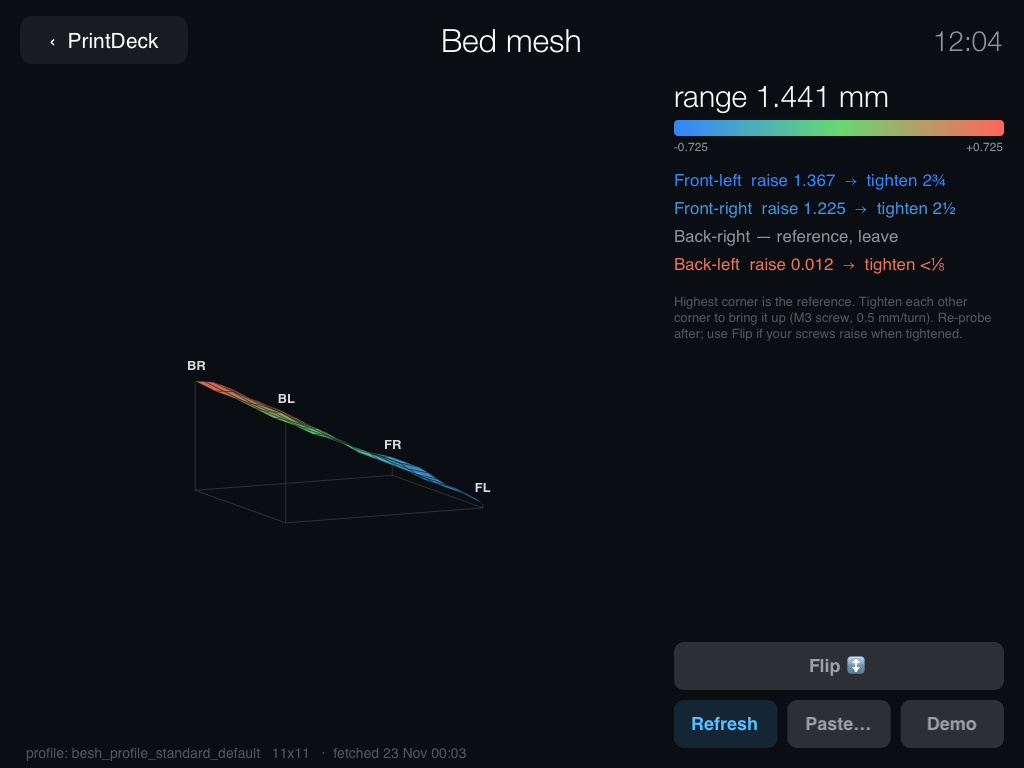
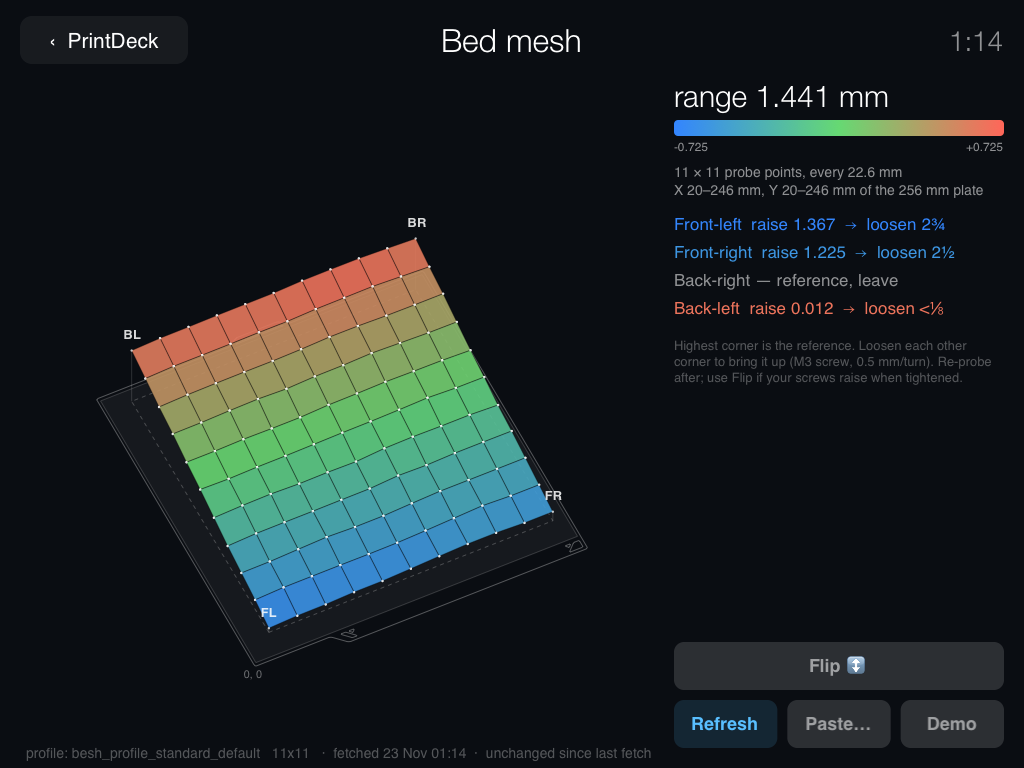
Bed mesh: draw the probed grid to scale on the real plate
The mesh view now places the probed area where the printer probed it on
the Centauri Carbon's plate (outline from PDBedShape.h, 256 mm printable
square, dashed probed footprint), with one grid line and one dot per probe
point. The panel lists the probe count, spacing and X/Y range. The default
view looks from the front-left, and quads are painted far-first (they were
painted nearest-first). The demo mesh now spans 20-246 mm like the real one.

diff --git a/PDMeshView.m b/PDMeshView.m
@@ -4,9 +4,11 @@
 #import "PDUtil.h"
 #import "PDPrinter.h"
 #import <QuartzCore/QuartzCore.h>
+#import "PDBedShape.h"
 #include <math.h>
 
 static NSString *const PDMeshInvertKey = @"PDMeshInvertScrew";
+static const double PDMeshPlate = 256.0;  // mm, the printable square
 static const double PDScrewPitch = 0.5;  // mm per full turn (M3 leveling screw; most of these beds)
 
 // Diverging colour: t in [-1,1], blue (low) -> green (on plane) -> red (high).
@@ -57,7 +59,8 @@ static NSString *PDTurns(double turns) {
 	return self;
 }
 
-- (void)resetView { self.azimuth = 0.62; self.elevation = 0.95; self.zoom = 1.0; [self setNeedsDisplay]; }
+- (void)resetView { self.azimuth = M_PI - 0.45; self.elevation = 0.95;  // from the front-left, as you stand at the printer
+	 self.zoom = 1.0; [self setNeedsDisplay]; }
 
 - (void)pan:(UIPanGestureRecognizer *)g {
 	CGPoint t = [g translationInView:self];
@@ -73,74 +76,113 @@ static NSString *PDTurns(double turns) {
 	[self setNeedsDisplay];
 }
 
+// The whole plate is drawn to scale (the Centauri Carbon's real outline from PDBedShape.h and its 256 mm printable
+// square), and the probed area sits where it really is on it: one grid line and one dot per probe point, at the
+// X/Y the printer probed (mesh_min..mesh_max, x_count × y_count), so the spacing and the unprobed margins are true.
 - (void)drawRect:(CGRect)rect {
 	PDMesh *m = self.mesh;
 	CGContextRef ctx = UIGraphicsGetCurrentContext();
 	CGRect b = self.bounds;
 	if (!m || m.nx < 2 || m.ny < 2) return;
 	NSUInteger nx = m.nx, ny = m.ny, N = nx * ny;
-	double cx = (m.minX + m.maxX) / 2, cy = (m.minY + m.maxY) / 2, mean = m.mean;
-	double bedMax = MAX(m.maxX - m.minX, m.maxY - m.minY);
+	const double S = PDMeshPlate, cx = S / 2, cy = S / 2;
+	double mean = m.mean;
 	double maxAbs = MAX(fabs(m.max - mean), fabs(mean - m.min));
 	if (maxAbs < 1e-6) maxAbs = 1e-6;
-	double zExagg = 0.26 * bedMax / maxAbs;   // auto: relief fills ~a quarter of the model height
+	double zExagg = 0.12 * S / maxAbs;   // auto: the relief is about a quarter of the plate width, top to bottom
 	double az = self.azimuth, el = self.elevation, ca = cos(az), sa = sin(az), ce = cos(el), se = sin(el);
-	double scale = MIN(b.size.width, b.size.height) * 0.34 * self.zoom;
+	double scale = MIN(b.size.width, b.size.height) * 0.56 * self.zoom;
 	double ox = b.size.width / 2, oy = b.size.height * 0.54;
-
-	CGPoint *P = malloc(sizeof(CGPoint) * N);
-	double *dev = malloc(sizeof(double) * N);
 	#define PROJ(X, Y, Z, OUTP, OUTDEPTH) do { \
 		double rx = (X) * ca - (Y) * sa, ry = (X) * sa + (Y) * ca, rz = (Z); \
 		double sx = rx, sy = rz * ce - ry * se; OUTDEPTH = ry * ce + rz * se; \
 		OUTP = CGPointMake(ox + scale * sx, oy - scale * sy); } while (0)
+	// printer mm -> model units. PROJ is a mirror image (its screen axes are left-handed), so X is negated to
+	// undo that: the bed's left stays on the left as seen from the front.
+	#define BED(XMM, YMM, ZU, OUTP) do { double _d; PROJ(-((XMM) - cx) / S, ((YMM) - cy) / S, (ZU), OUTP, _d); (void)_d; } while (0)
 
+	double baseZ = (m.min - mean) * zExagg / S - 0.02;
+
+	// the plate: printable square filled faintly, the physical outline (tabs and all) and the 0/256 corner marks
+	CGPoint sq[4];
+	double sxv[4] = {0, S, S, 0}, syv[4] = {0, 0, S, S};
+	for (int i = 0; i < 4; i++) BED(sxv[i], syv[i], baseZ, sq[i]);
+	CGContextMoveToPoint(ctx, sq[0].x, sq[0].y);
+	for (int i = 1; i < 4; i++) CGContextAddLineToPoint(ctx, sq[i].x, sq[i].y);
+	CGContextClosePath(ctx);
+	CGContextSetFillColorWithColor(ctx, [UIColor colorWithWhite:1 alpha:0.05].CGColor);
+	CGContextSetStrokeColorWithColor(ctx, [UIColor colorWithWhite:1 alpha:0.16].CGColor);
+	CGContextSetLineWidth(ctx, 1.0);
+	CGContextDrawPath(ctx, kCGPathFillStroke);
+	for (int i = 0; i < PDBedEdgeCount; i++) {
+		CGPoint p0, p1;
+		BED(PDBedOutline[i * 4], PDBedOutline[i * 4 + 1], baseZ, p0);
+		BED(PDBedOutline[i * 4 + 2], PDBedOutline[i * 4 + 3], baseZ, p1);
+		CGContextMoveToPoint(ctx, p0.x, p0.y);
+		CGContextAddLineToPoint(ctx, p1.x, p1.y);
+	}
+	CGContextSetStrokeColorWithColor(ctx, [UIColor colorWithWhite:1 alpha:0.30].CGColor);
+	CGContextStrokePath(ctx);
+	// the probed area's footprint on the plate (dashed)
+	CGPoint fp[4];
+	double fxv[4] = {m.minX, m.maxX, m.maxX, m.minX}, fyv[4] = {m.minY, m.minY, m.maxY, m.maxY};
+	for (int i = 0; i < 4; i++) BED(fxv[i], fyv[i], baseZ, fp[i]);
+	CGFloat dash[2] = {4, 4};
+	CGContextSetLineDash(ctx, 0, dash, 2);
+	CGContextMoveToPoint(ctx, fp[0].x, fp[0].y);
+	for (int i = 1; i < 4; i++) CGContextAddLineToPoint(ctx, fp[i].x, fp[i].y);
+	CGContextClosePath(ctx);
+	CGContextSetStrokeColorWithColor(ctx, [UIColor colorWithWhite:1 alpha:0.22].CGColor);
+	CGContextStrokePath(ctx);
+	CGContextSetLineDash(ctx, 0, NULL, 0);
+	// the plate's origin (drawn now so the surface covers them when it's in front)
+	[[UIColor colorWithWhite:1 alpha:0.40] set];
+	UIFont *small = [UIFont systemFontOfSize:11];
+	[@"0, 0" drawAtPoint:CGPointMake(sq[0].x - 12, sq[0].y + 4) withFont:small];
+
+	// surface vertices: exactly the probe points
+	CGPoint *P = malloc(sizeof(CGPoint) * N);
+	double *dev = malloc(sizeof(double) * N);
 	for (NSUInteger gy = 0; gy < ny; gy++)
 		for (NSUInteger gx = 0; gx < nx; gx++) {
 			double x = m.minX + (m.maxX - m.minX) * gx / (double)(nx - 1);
 			double y = m.minY + (m.maxY - m.minY) * gy / (double)(ny - 1);
 			double zv = [m zAtCol:gx row:gy];
-			double X = -(x - cx) / bedMax, Y = (y - cy) / bedMax, Z = (zv - mean) * zExagg / bedMax;  // -X: bed left on the viewer's left
-			double depth; CGPoint p; PROJ(X, Y, Z, p, depth);
-			NSUInteger i = gy * nx + gx; P[i] = p; dev[i] = zv - mean;
+			NSUInteger i = gy * nx + gx;
+			BED(x, y, (zv - mean) * zExagg / S, P[i]);
+			dev[i] = zv - mean;
 		}
 
-	// faint base plane (at the lowest surface level) for depth, with posts up to the surface corners
-	double baseZ = (m.min - mean) * zExagg / bedMax - 0.02;
-	CGPoint corners[4]; double cd;
-	double hx[4] = {-0.5, 0.5, 0.5, -0.5}, hy[4] = {-0.5, -0.5, 0.5, 0.5};
-	for (int i = 0; i < 4; i++) PROJ(-hx[i] * (m.maxX - m.minX) / bedMax, hy[i] * (m.maxY - m.minY) / bedMax, baseZ, corners[i], cd);
-	CGContextSetStrokeColorWithColor(ctx, [UIColor colorWithWhite:1 alpha:0.14].CGColor);
-	CGContextSetLineWidth(ctx, 1.0);
-	CGContextMoveToPoint(ctx, corners[0].x, corners[0].y);
-	for (int i = 1; i < 4; i++) CGContextAddLineToPoint(ctx, corners[i].x, corners[i].y);
-	CGContextClosePath(ctx); CGContextStrokePath(ctx);
+	// posts from the footprint corners up to the surface corners
 	NSUInteger cornerIdx[4] = {0, nx - 1, N - 1, N - nx};  // FL, FR, BR, BL in grid terms
 	for (int i = 0; i < 4; i++) {
-		CGContextMoveToPoint(ctx, corners[i].x, corners[i].y);
+		CGContextMoveToPoint(ctx, fp[i].x, fp[i].y);
 		CGContextAddLineToPoint(ctx, P[cornerIdx[i]].x, P[cornerIdx[i]].y);
 	}
+	CGContextSetStrokeColorWithColor(ctx, [UIColor colorWithWhite:1 alpha:0.14].CGColor);
 	CGContextStrokePath(ctx);
 
-	// quads, painter's algorithm (far first)
+	// quads between neighbouring probe points, painter's algorithm (far first); each quad's dots are drawn
+	// with it, so dots behind a fold are covered like the surface is
 	NSUInteger qn = (nx - 1) * (ny - 1), qi = 0;
 	typedef struct { NSUInteger a, bb, c, d; double depth, dev; } Quad;
 	Quad *Q = malloc(sizeof(Quad) * qn);
 	for (NSUInteger gy = 0; gy + 1 < ny; gy++)
 		for (NSUInteger gx = 0; gx + 1 < nx; gx++) {
 			NSUInteger a = gy * nx + gx, bb = gy * nx + gx + 1, c = (gy + 1) * nx + gx + 1, d = (gy + 1) * nx + gx;
-			double X = -(m.minX + (m.maxX - m.minX) * (gx + 0.5) / (nx - 1) - cx) / bedMax;
-			double Y = (m.minY + (m.maxY - m.minY) * (gy + 0.5) / (ny - 1) - cy) / bedMax;
-			double Z = ((dev[a] + dev[bb] + dev[c] + dev[d]) / 4) * zExagg / bedMax;
-			double depth; CGPoint pp; PROJ(X, Y, Z, pp, depth); (void)pp;
-			Q[qi].a = a; Q[qi].bb = bb; Q[qi].c = c; Q[qi].d = d; Q[qi].depth = depth;
-			Q[qi].dev = (dev[a] + dev[bb] + dev[c] + dev[d]) / 4;
+			double X = -(m.minX + (m.maxX - m.minX) * (gx + 0.5) / (nx - 1) - cx) / S;
+			double Y = (m.minY + (m.maxY - m.minY) * (gy + 0.5) / (ny - 1) - cy) / S;
+			double qd = (dev[a] + dev[bb] + dev[c] + dev[d]) / 4;
+			double depth; CGPoint pp; PROJ(X, Y, qd * zExagg / S, pp, depth); (void)pp;
+			Q[qi].a = a; Q[qi].bb = bb; Q[qi].c = c; Q[qi].d = d; Q[qi].depth = depth; Q[qi].dev = qd;
 			qi++;
 		}
-	for (NSUInteger i = 0; i + 1 < qn; i++)  // insertion sort by depth desc (qn tiny)
+	for (NSUInteger i = 0; i + 1 < qn; i++)  // selection sort, far first: PROJ's depth grows toward the viewer
 		for (NSUInteger j = i + 1; j < qn; j++)
-			if (Q[j].depth > Q[i].depth) { Quad t = Q[i]; Q[i] = Q[j]; Q[j] = t; }
+			if (Q[j].depth < Q[i].depth) { Quad t = Q[i]; Q[i] = Q[j]; Q[j] = t; }
 
+	CGFloat r = MAX(1.2, MIN(2.4, scale * 0.0028 * 11 / MAX(nx, ny)));  // dot size follows the zoom and the probe spacing
+	CGContextSetLineWidth(ctx, 1.0);
 	for (NSUInteger i = 0; i < qn; i++) {
 		Quad q = Q[i];
 		CGContextMoveToPoint(ctx, P[q.a].x, P[q.a].y);
@@ -148,22 +190,24 @@ static NSString *PDTurns(double turns) {
 		CGContextAddLineToPoint(ctx, P[q.c].x, P[q.c].y);
 		CGContextAddLineToPoint(ctx, P[q.d].x, P[q.d].y);
 		CGContextClosePath(ctx);
-		CGContextSetFillColorWithColor(ctx, [PDMeshColor(q.dev / maxAbs) colorWithAlphaComponent:0.88].CGColor);
-		CGContextSetStrokeColorWithColor(ctx, [UIColor colorWithWhite:0 alpha:0.28].CGColor);
-		CGContextSetLineWidth(ctx, 1.0);
+		CGContextSetFillColorWithColor(ctx, [PDMeshColor(q.dev / maxAbs) colorWithAlphaComponent:0.90].CGColor);
+		CGContextSetStrokeColorWithColor(ctx, [UIColor colorWithWhite:0 alpha:0.35].CGColor);
 		CGContextDrawPath(ctx, kCGPathFillStroke);
+		NSUInteger v[4] = {q.a, q.bb, q.c, q.d};
+		CGContextSetFillColorWithColor(ctx, [UIColor colorWithWhite:1 alpha:0.75].CGColor);
+		for (int k = 0; k < 4; k++) CGContextFillEllipseInRect(ctx, CGRectMake(P[v[k]].x - r, P[v[k]].y - r, 2 * r, 2 * r));
 	}
 
-	// corner letters
+	// corner letters at the probed corners
 	NSArray *labels = [NSArray arrayWithObjects:@"FL", @"FR", @"BR", @"BL", nil];
+	[[UIColor colorWithWhite:1 alpha:0.85] set];
 	for (int i = 0; i < 4; i++) {
-		UILabel *tmp = nil; (void)tmp;
-		NSString *s = [labels objectAtIndex:i];
 		CGPoint p = P[cornerIdx[i]];
-		[[UIColor colorWithWhite:1 alpha:0.85] set];
-		[s drawAtPoint:CGPointMake(p.x - 8, p.y - 24) withFont:[UIFont boldSystemFontOfSize:13]];
+		[[labels objectAtIndex:i] drawAtPoint:CGPointMake(p.x - 8, p.y - 24) withFont:[UIFont boldSystemFontOfSize:13]];
 	}
 	free(P); free(dev); free(Q);
+	#undef BED
+	#undef PROJ
 }
 
 @end
@@ -175,7 +219,7 @@ static NSString *PDTurns(double turns) {
 	UIView *_pasteOverlay;
 }
 @property (nonatomic, strong) UIButton *backButton;
-@property (nonatomic, strong) UILabel *titleLabel, *clockLabel, *profileLabel, *devLabel, *hintLabel;
+@property (nonatomic, strong) UILabel *titleLabel, *clockLabel, *profileLabel, *devLabel, *hintLabel, *probeLabel;
 @property (nonatomic, strong) PDMeshCanvas *canvas;
 @property (nonatomic, strong) UIView *legend;
 @property (nonatomic, strong) UILabel *legendLo, *legendHi;
@@ -212,6 +256,8 @@ static NSString *PDTurns(double turns) {
 
 		self.devLabel = PDLabel(PDLightFont(30), [UIColor whiteColor]);
 		self.hintLabel = PDLabel([UIFont systemFontOfSize:13], PD_FAINT);
+		self.probeLabel = PDLabel([UIFont systemFontOfSize:14], PD_DIM);
+		self.probeLabel.numberOfLines = 2;
 		self.hintLabel.numberOfLines = 3;
 		self.legend = [[UIView alloc] initWithFrame:CGRectZero];
 		self.legend.layer.cornerRadius = 4;
@@ -238,7 +284,7 @@ static NSString *PDTurns(double turns) {
 		[self.flipBtn addTarget:self action:@selector(flipScrew) forControlEvents:UIControlEventTouchUpInside];
 
 		for (UIView *v in [NSArray arrayWithObjects:self.backButton, self.titleLabel, self.clockLabel, self.profileLabel,
-				self.canvas, self.devLabel, self.hintLabel, self.legend, self.legendLo, self.legendHi,
+				self.canvas, self.devLabel, self.probeLabel, self.hintLabel, self.legend, self.legendLo, self.legendHi,
 				self.refreshBtn, self.pasteBtn, self.demoBtn, self.flipBtn, nil]) [self addSubview:v];
 		for (UILabel *l in rows) [self addSubview:l];
 
@@ -301,6 +347,10 @@ static NSString *PDTurns(double turns) {
 	self.profileLabel.adjustsFontSizeToFitWidth = YES;
 	if (!m) { self.devLabel.text = @"–"; return; }
 	self.devLabel.text = [NSString stringWithFormat:@"range %.3f mm", m.range];
+	double stepX = (m.maxX - m.minX) / (m.nx - 1), stepY = (m.maxY - m.minY) / (m.ny - 1);
+	NSString *step = fabs(stepX - stepY) < 0.05 ? [NSString stringWithFormat:@"%.1f mm", stepX] : [NSString stringWithFormat:@"%.1f × %.1f mm", stepX, stepY];
+	self.probeLabel.text = [NSString stringWithFormat:@"%lu × %lu probe points, every %@\nX %.0f–%.0f mm, Y %.0f–%.0f mm of the 256 mm plate",
+		(unsigned long)m.nx, (unsigned long)m.ny, step, m.minX, m.maxX, m.minY, m.maxY];
 	double maxAbs = MAX(fabs(m.max - m.mean), fabs(m.mean - m.min));
 	self.legendLo.text = [NSString stringWithFormat:@"%+.3f", -maxAbs];
 	self.legendHi.text = [NSString stringWithFormat:@"%+.3f", maxAbs];
@@ -350,7 +400,8 @@ static NSString *PDTurns(double turns) {
 	y += 18;
 	self.legendLo.frame = CGRectMake(px, y, pw / 2, 16);
 	self.legendHi.frame = CGRectMake(px + pw / 2, y, pw / 2, 16);
-	y += 28;
+	y += 24;
+	self.probeLabel.frame = CGRectMake(px, y, pw, 38); y += 48;
 	for (int i = 0; i < 4; i++) { [(UILabel *)[self.screwRows objectAtIndex:i] setFrame:CGRectMake(px, y, pw, 26)]; y += 28; }
 	y += 6;
 	self.hintLabel.frame = CGRectMake(px, y, pw, 66); y += 74;

diff --git a/PDMesh.m b/PDMesh.m
@@ -340,7 +340,7 @@ static NSString *PDMeshStamp(void) {
 		}
 		[rows addObject:row];
 	}
-	PDMesh *m = [[PDMesh alloc] initWithRows:rows minX:20 minY:20 maxX:200 maxY:200 profile:@"demo"];
+	PDMesh *m = [[PDMesh alloc] initWithRows:rows minX:20 minY:20 maxX:246 maxY:246 profile:@"demo"];
 	[self setOriginText:@"demo mesh"];
 	[self applyMesh:m error:nil];
 	self.lastFetchUnchanged = NO;

diff --git a/docs/FEATURES.md b/docs/FEATURES.md
@@ -45,8 +45,12 @@ the part sits on the bed.
 **Not available in the printer's web page or in ElegooSlicer.** The web page only reports that levelling ran.
 The firmware has no command that returns the mesh.
 
-- A rotatable 3D height map of the probed grid (11 × 11 here), coloured blue → green → red around the mean, with
-  the total range (1.441 mm on this bed).
+- A rotatable 3D height map drawn **to scale on the Centauri Carbon's real plate** (its outline and the 256 mm
+  printable square). The probed area sits where the printer probed it, and every grid line and white dot is an actual
+  probe point: 11 × 11 points every 22.6 mm, from X/Y 20 to 246 mm on this printer. The dashed line shows the
+  footprint of the probed area, so you can see the margins that aren't probed.
+- It opens looking from the front-left, as you stand at the printer. It's coloured blue → green → red around the mean,
+  with the total range (1.441 mm on this bed).
 - **Tramming hints** for the four spring-loaded corner screws. The highest corner is the reference. For every
   other corner it shows how much it must rise and how far to turn the screw: "raise 1.367 → loosen 2¾" for an M3
   screw at 0.5 mm per turn. **Flip** swaps loosen and tighten if your screws work the other way round.

diff --git a/README.md b/README.md
@@ -297,7 +297,11 @@ Open it from the **Design** card (or `printdeck://design[?name=<design>]`).
 - **Send to slicer** writes the solids' union as `<name> (design).stl` with your STLs and opens it on the Slice
   page (it warns about holes that aren't grouped with anything).
 ## Bed mesh
-A rotatable 3D height map of the bed, with hints for tramming the **4 spring-loaded corner screws**.
+A rotatable 3D height map of the bed, with hints for tramming the **4 spring-loaded corner screws**. It is drawn to
+scale on the Centauri Carbon's real plate (outline from `PDBedShape.h`, plus the 256 mm printable square). The probed
+area sits at its real position (`mesh_min`..`mesh_max`), with one grid line and one dot per probe point. The panel
+states the probe count, spacing and X/Y range ("11 × 11 probe points, every 22.6 mm · X 20–246 mm, Y 20–246 mm"), and
+the view opens from the front-left, as you stand at the printer.
 Open it from the **Bed** detail page's **Bed mesh** button or `printdeck://mesh`. Drag the model to
 rotate, pinch to zoom, double-tap to reset; ‹ PrintDeck or a swipe off the model goes back. The panel
 names the highest corner as the reference and, for each other corner, the rise needed and the screw
